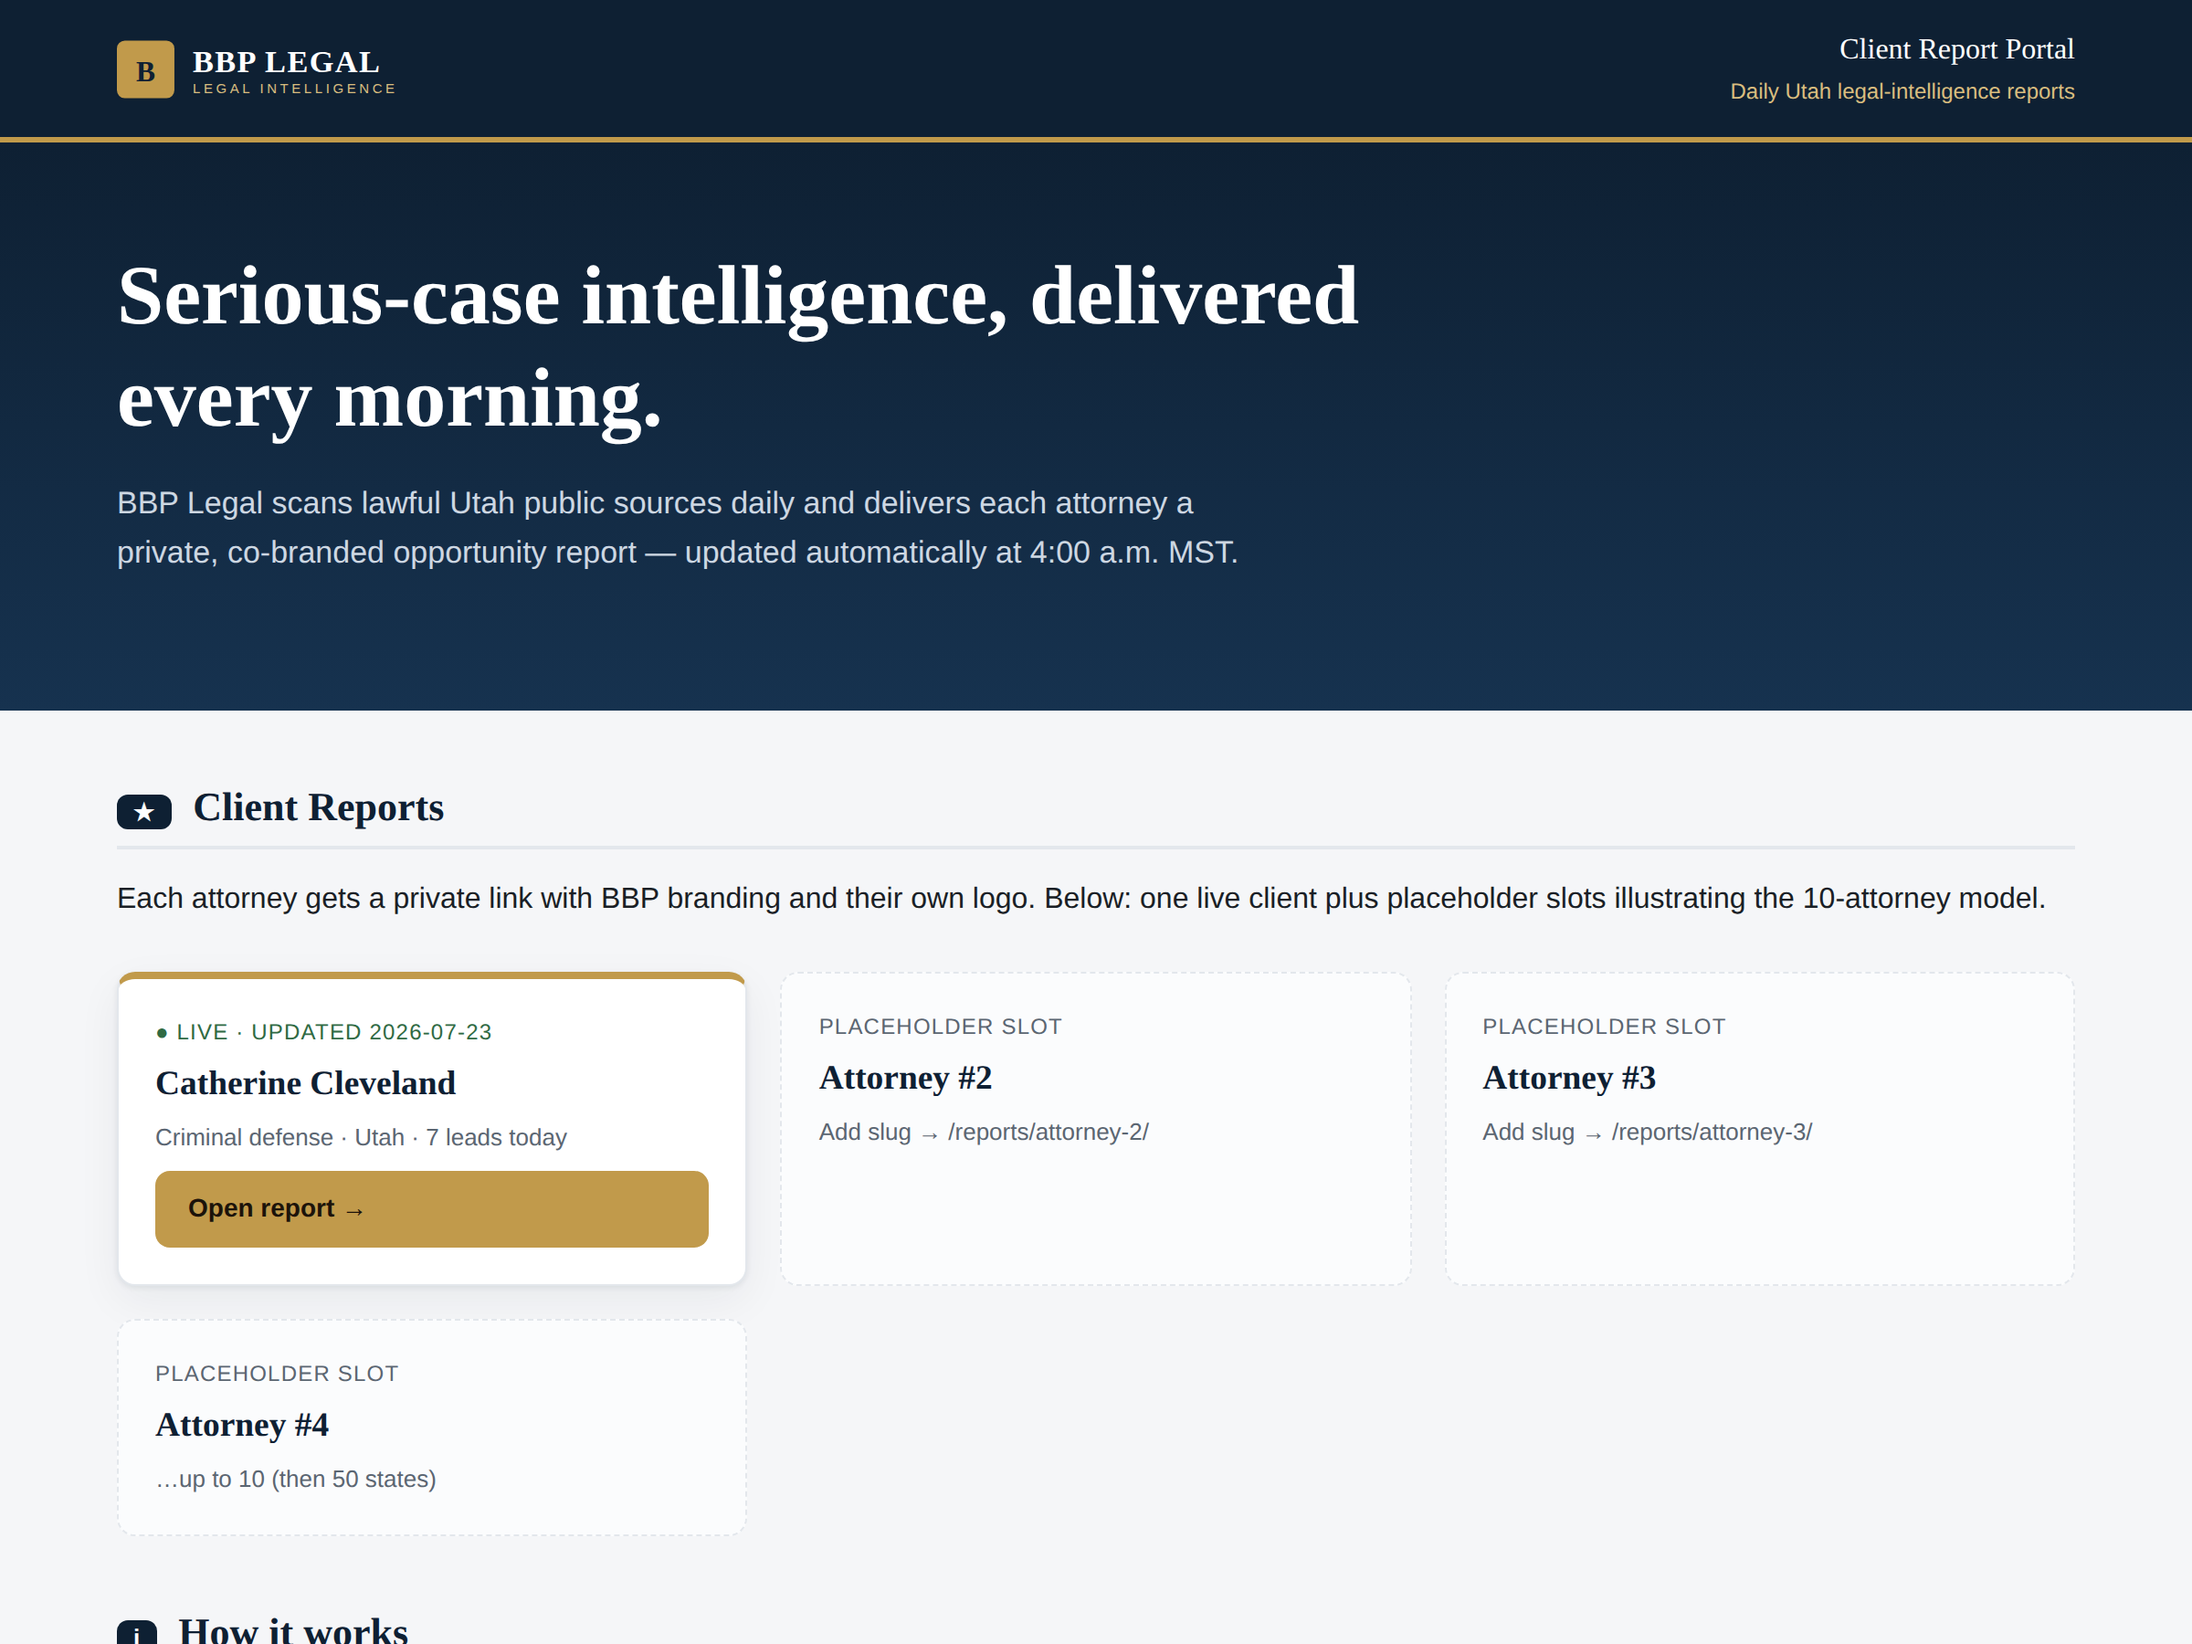
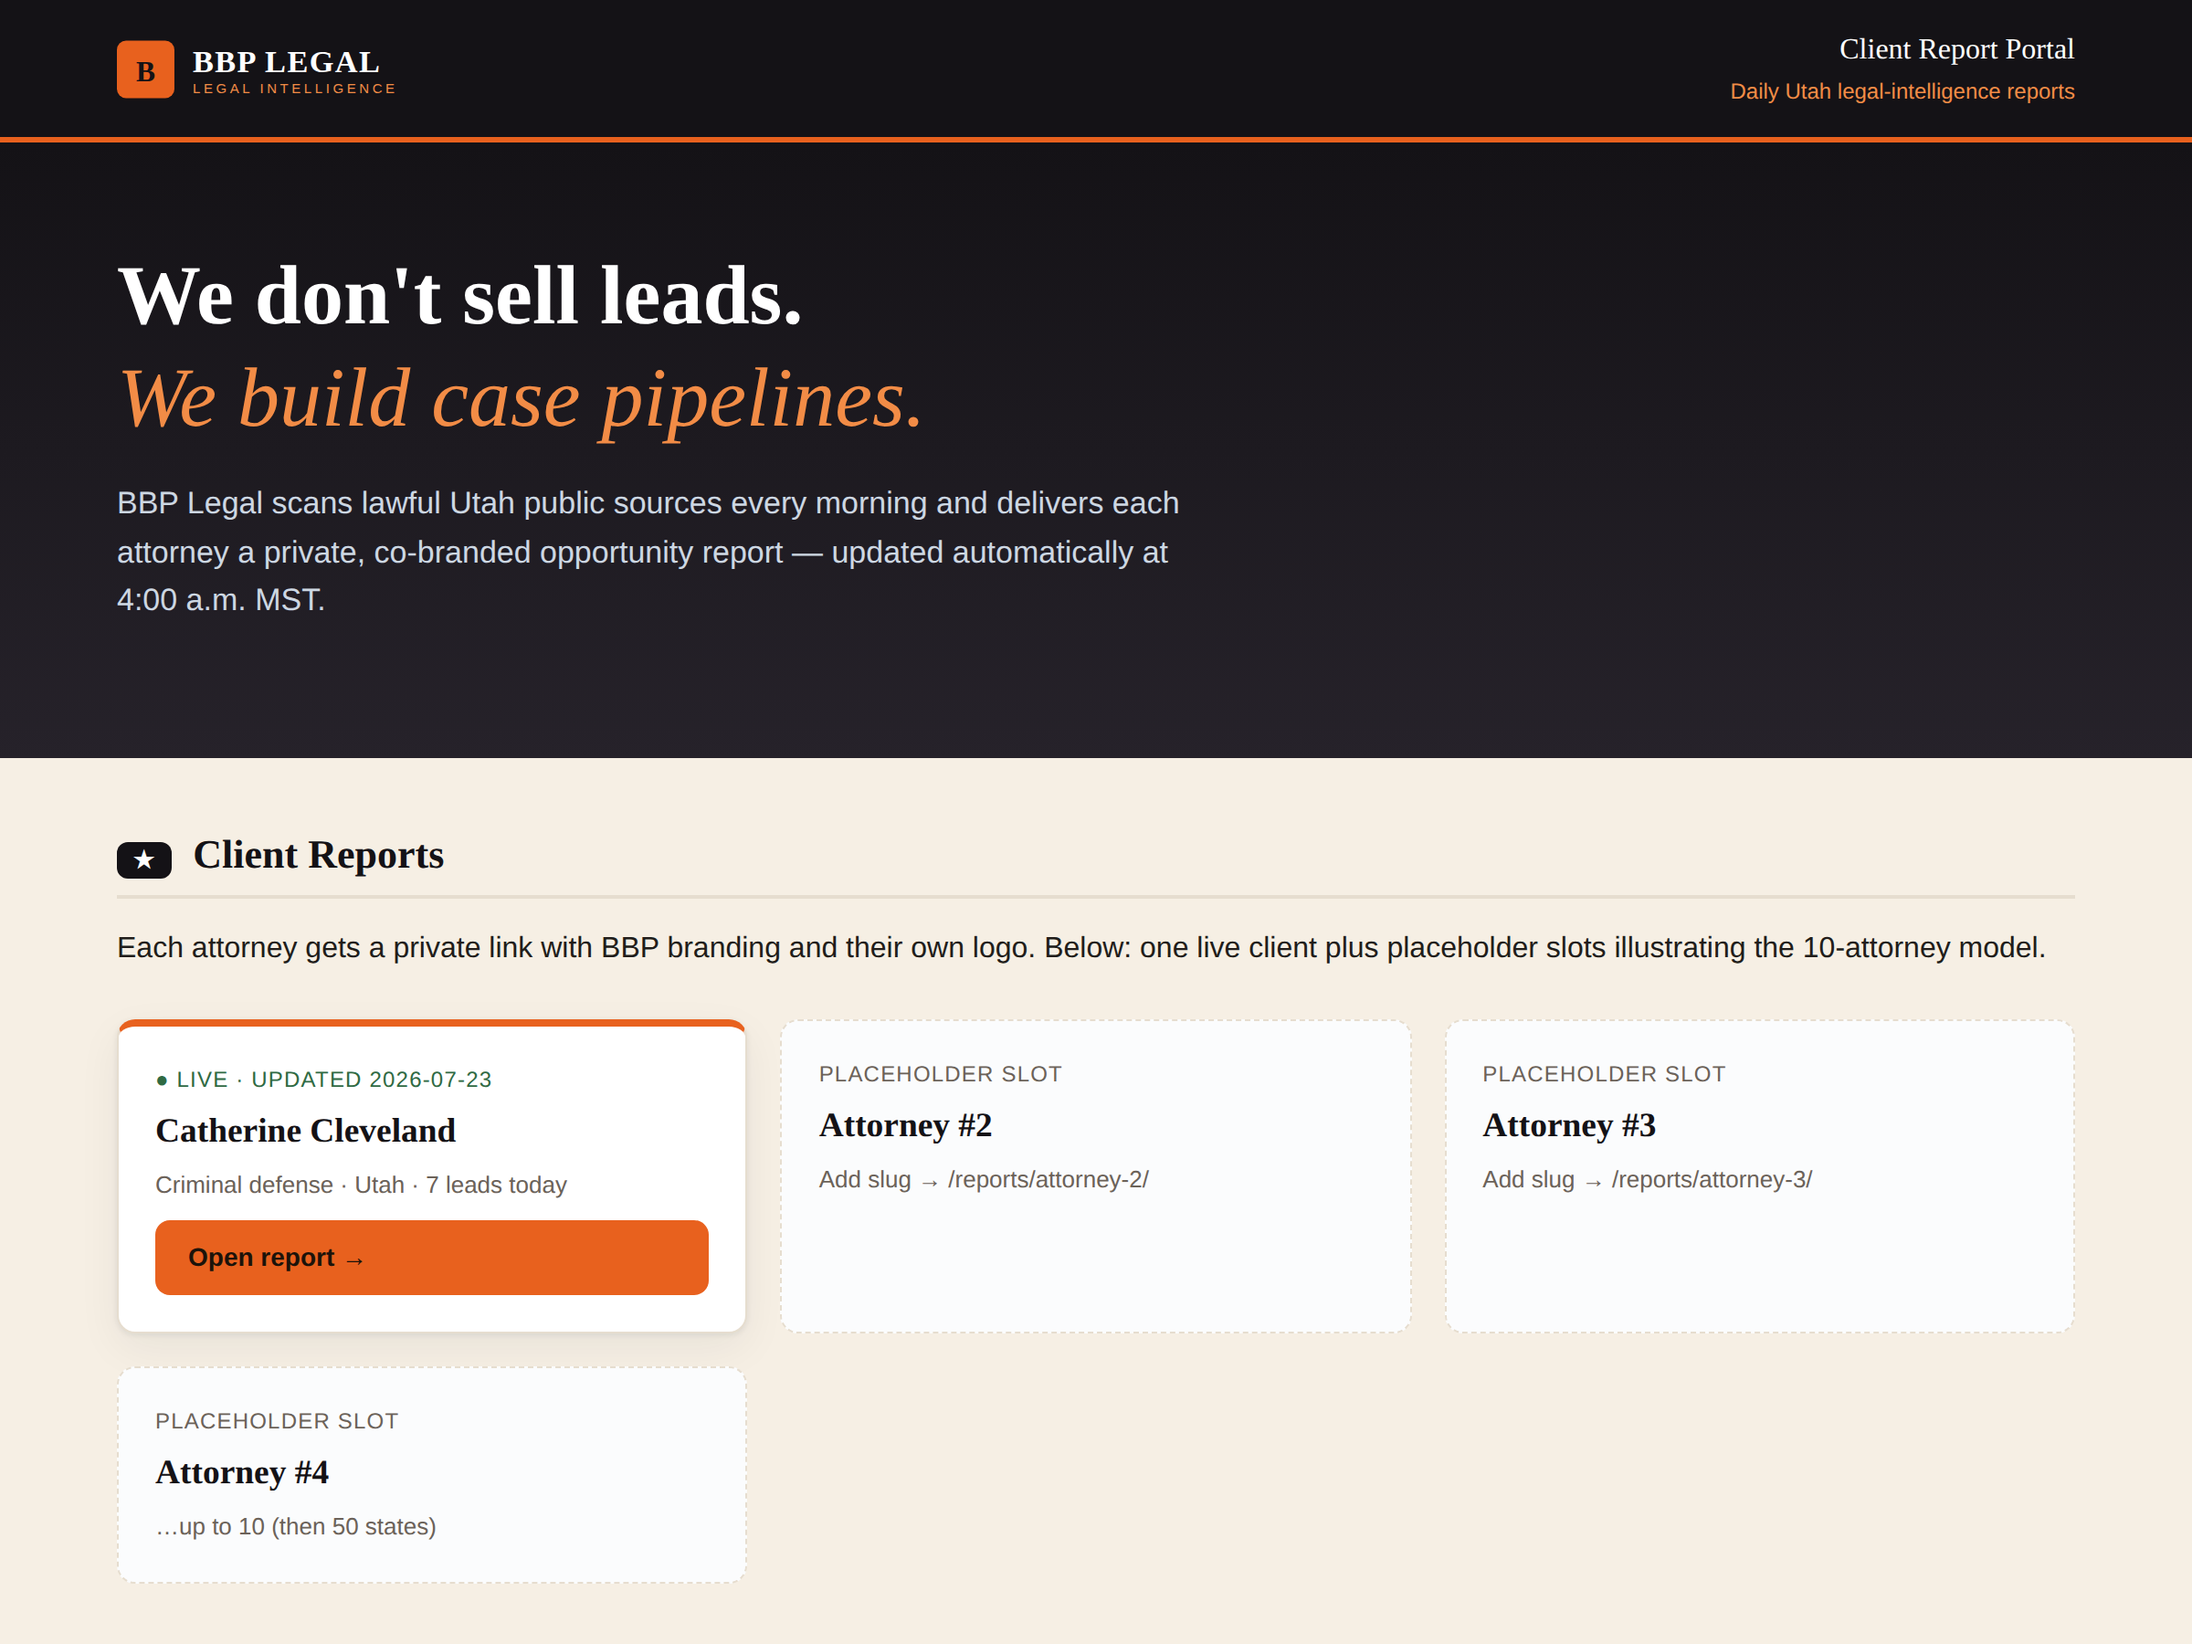
Rebrand Netlify portal to BBP Legal palette (black / burnt-orange / cream)
Matched to bbplegal site: near-black surfaces, #e8611e burnt orange accent,
warm cream sections, serif headlines with orange italic accent lines.
Remapped brand tokens in brand.css (single-file), updated logos to orange
mark, added two-tone portal headline, refreshed previews and site zip.

Claude-Session: https://claude.ai/code/session_016dT1Q4MjmpoSvMgEJKTJWF

diff --git a/cleveland-case-hunter/netlify/assets/brand.css b/cleveland-case-hunter/netlify/assets/brand.css
@@ -9,29 +9,31 @@
    ============================================================ */
 
 :root {
-  /* --- BBP master brand (PLACEHOLDER — swap for real values) --- */
-  --brand-navy:      #0e2033;   /* primary dark  */
-  --brand-navy-2:    #16324f;   /* dark tint     */
-  --brand-gold:      #c19a4b;   /* accent / rule */
-  --brand-gold-2:    #d9bd7f;   /* accent light  */
-  --brand-ink:       #1a1f26;   /* body text     */
-  --brand-paper:     #f5f6f8;   /* page bg        */
+  /* --- BBP master brand (matched to bbplegal — black / burnt-orange / cream) ---
+     Names kept as --brand-navy / --brand-gold for backward compatibility;
+     the VALUES are the real BBP palette. Fine-tune hexes if you have exacts. */
+  --brand-navy:      #141216;   /* primary dark (near-black, warm)  */
+  --brand-navy-2:    #26222a;   /* dark tint / gradient end         */
+  --brand-gold:      #e8611e;   /* BBP burnt orange — accent/rule   */
+  --brand-gold-2:    #f28c46;   /* light orange (accents on dark)   */
+  --brand-ink:       #211d1a;   /* body text (warm near-black)      */
+  --brand-paper:     #f6efe4;   /* warm cream page bg               */
 
-  /* --- derived neutrals (usually leave as-is) --- */
+  /* --- derived neutrals (warm) --- */
   --card:   #ffffff;
-  --muted:  #5b6672;
-  --line:   #e3e7ec;
-  --line-2: #eef1f4;
+  --muted:  #6b6259;
+  --line:   #e6ddcf;
+  --line-2: #f0e9dd;
 
-  /* --- semantic status colors --- */
-  --danger:  #9c2b2b;   /* HOLD / Do Not Contact */
-  --danger-bg:#f7e7e7;
-  --amber:   #a9701a;   /* Review Today */
-  --amber-bg:#fbf1de;
+  /* --- semantic status colors (kept distinct from brand orange) --- */
+  --danger:  #a12b21;   /* HOLD / Do Not Contact */
+  --danger-bg:#f7e6e2;
+  --amber:   #b07d12;   /* Review Today (gold-yellow, not brand orange) */
+  --amber-bg:#f8efd6;
   --green:   #2f6a43;   /* Develop / Verify */
   --green-bg:#e6f0e9;
-  --slate:   #4a5568;   /* Monitor / neutral */
-  --slate-bg:#eceef1;
+  --slate:   #5a5148;   /* Monitor / neutral */
+  --slate-bg:#ece6dc;
 
   /* --- per-attorney accent (overridden per report) --- */
   --accent: var(--brand-gold);
@@ -54,8 +56,12 @@ body {
   font-size: 16px;
 }
 h1,h2,h3,h4 { font-family: var(--serif); font-weight: 600; line-height: 1.2; color: var(--brand-navy); margin: 0 0 .4em; }
-a { color: var(--brand-navy-2); }
+a { color: var(--brand-gold); }
 img { max-width: 100%; }
+
+/* BBP signature: orange italic serif accent line under a headline */
+.accent-italic { font-family: var(--serif); font-style: italic; font-weight: 500; color: var(--brand-gold); }
+.report-hero .accent-italic, .hero-home .accent-italic { color: var(--brand-gold-2); }
 
 .wrap { max-width: var(--maxw); margin: 0 auto; padding: 0 24px; }
 

diff --git a/cleveland-case-hunter/netlify/index.html b/cleveland-case-hunter/netlify/index.html
@@ -30,8 +30,8 @@
 </div></header>
 
 <section class="hero-home"><div class="wrap">
-  <h1>Serious-case intelligence, delivered every morning.</h1>
-  <p>BBP Legal scans lawful Utah public sources daily and delivers each attorney a private, co-branded opportunity report — updated automatically at 4:00&nbsp;a.m. MST.</p>
+  <h1>We don't sell leads.<br><span class="accent-italic">We build case pipelines.</span></h1>
+  <p>BBP Legal scans lawful Utah public sources every morning and delivers each attorney a private, co-branded opportunity report — updated automatically at 4:00&nbsp;a.m. MST.</p>
 </div></section>
 
 <main class="wrap">

diff --git a/cleveland-case-hunter/netlify/README.md b/cleveland-case-hunter/netlify/README.md
@@ -30,13 +30,15 @@ netlify.toml               Config: clean URLs, security + noindex headers, cachi
 
 ## 1. Match BBP branding (30 seconds)
 
-Open **`assets/brand.css`** and replace the six `--brand-*` hex values at the top with your
-real BBP Legal colors. Replace **`assets/bbp-logo.svg`** with your real logo (keep the
-filename, or point the `<img>` tags at a PNG/SVG). Every page updates automatically.
+The palette in **`assets/brand.css`** is matched to BBP Legal — **black / burnt-orange
+(#e8611e) / warm cream** with serif headlines and orange italic accent lines. If you have
+exact brand hexes, fine-tune the six `--brand-*` values at the top. Replace
+**`assets/bbp-logo.svg`** with your real logo (keep the filename, or point the `<img>` tags
+at a PNG/SVG). Every page updates automatically.
 
-> These colors are professional placeholders. I could not read `bbplegal-dbcgt5ax.manus.space`
-> from the build environment (network policy blocked it), so send me the hex codes + logo and
-> I'll lock it exactly — or just drop them in here yourself.
+> Colors were matched visually from the BBP Legal site (the build environment's network
+> policy blocked a direct fetch). Send the exact brand hex codes + logo file and I'll drop
+> them in for pixel-exact fidelity.
 
 ## 2. Add an attorney (per-client branding)
 
